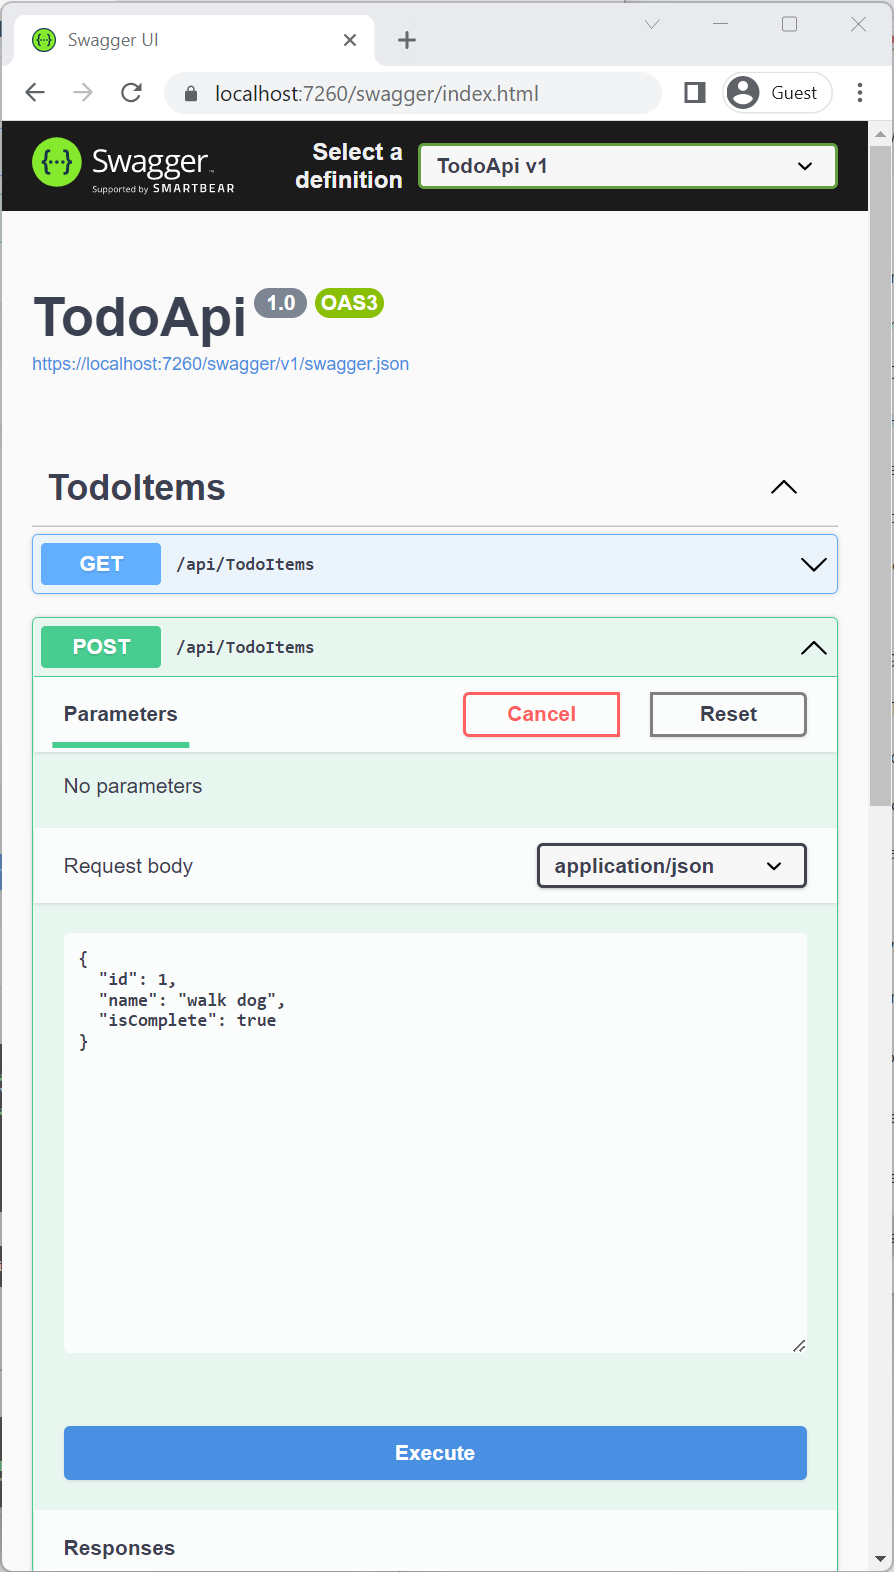
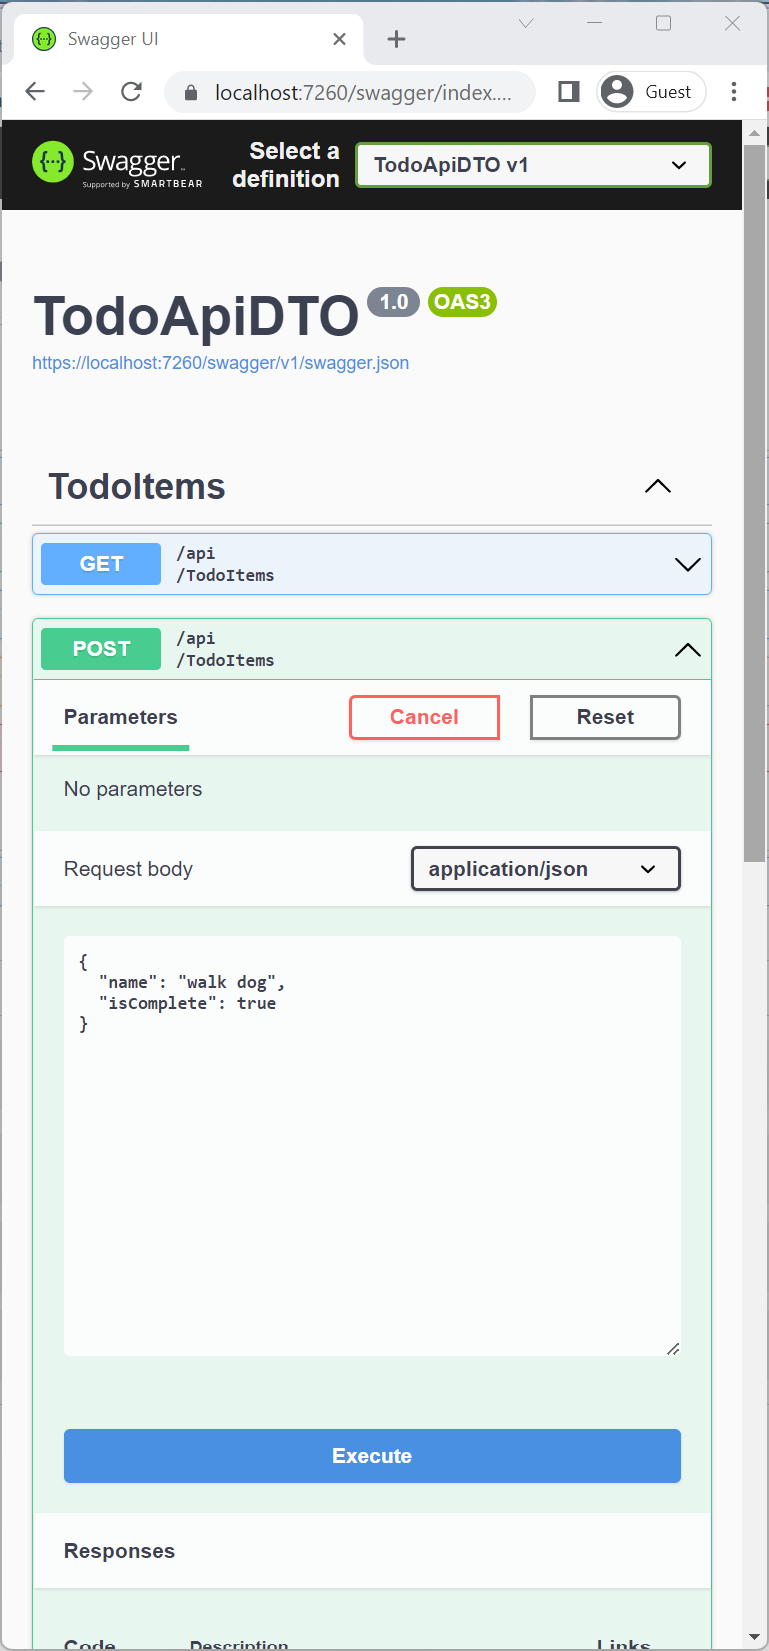
.NET 7: Intro to Web API /2

diff --git a/aspnetcore/tutorials/first-web-api.md b/aspnetcore/tutorials/first-web-api.md
@@ -364,7 +364,7 @@ For more information, see [Attribute routing with Http[Verb] attributes](xref:mv
 
 The <xref:Microsoft.AspNetCore.Mvc.ControllerBase.CreatedAtAction%2A> method:
 
-* Returns an [HTTP 201 status code](https://developer.mozilla.org/docs/Web/HTTP/Status/201) if successful. HTTP 201 is the standard response for an HTTP POST method that creates a new resource on the server.
+* Returns an [HTTP 201 status code](https://developer.mozilla.org/docs/Web/HTTP/Status/201) if successful. `HTTP 201` is the standard response for an `HTTP POST` method that creates a new resource on the server.
 * Adds a [Location](https://developer.mozilla.org/docs/Web/HTTP/Headers/Location) header to the response. The `Location` header specifies the [URI](https://developer.mozilla.org/docs/Glossary/URI) of the newly created to-do item. For more information, see [10.2.2 201 Created](https://www.rfc-editor.org/rfc/rfc9110.html#section-10.2.2).
 * References the `GetTodoItem` action to create the `Location` header's URI. The C# `nameof` keyword is used to avoid hard-coding the action name in the `CreatedAtAction` call.
 
@@ -378,7 +378,6 @@ The <xref:Microsoft.AspNetCore.Mvc.ControllerBase.CreatedAtAction%2A> method:
   
   ```JSON
   {
-    "id": 1,
     "name": "walk dog",
     "isComplete": true
   }
@@ -414,7 +413,7 @@ This app uses an in-memory database. If the app is stopped and started, the prec
 
 ## Routing and URL paths
 
-The [`[HttpGet]`](xref:Microsoft.AspNetCore.Mvc.HttpGetAttribute) attribute denotes a method that responds to an HTTP GET request. The URL path for each method is constructed as follows:
+The [`[HttpGet]`](xref:Microsoft.AspNetCore.Mvc.HttpGetAttribute) attribute denotes a method that responds to an `HTTP GET` request. The URL path for each method is constructed as follows:
 
 * Start with the template string in the controller's `Route` attribute:
 
@@ -434,7 +433,7 @@ The return type of the `GetTodoItems` and `GetTodoItem` methods is [ActionResult
 `ActionResult` return types can represent a wide range of HTTP status codes. For example, `GetTodoItem` can return two different status values:
 
 * If no item matches the requested ID, the method returns a [404 status](https://developer.mozilla.org/docs/Web/HTTP/Status/404) <xref:Microsoft.AspNetCore.Mvc.ControllerBase.NotFound%2A> error code.
-* Otherwise, the method returns 200 with a JSON response body. Returning `item` results in an HTTP 200 response.
+* Otherwise, the method returns 200 with a JSON response body. Returning `item` results in an `HTTP 200` response.
 
 ## The PutTodoItem method
 
